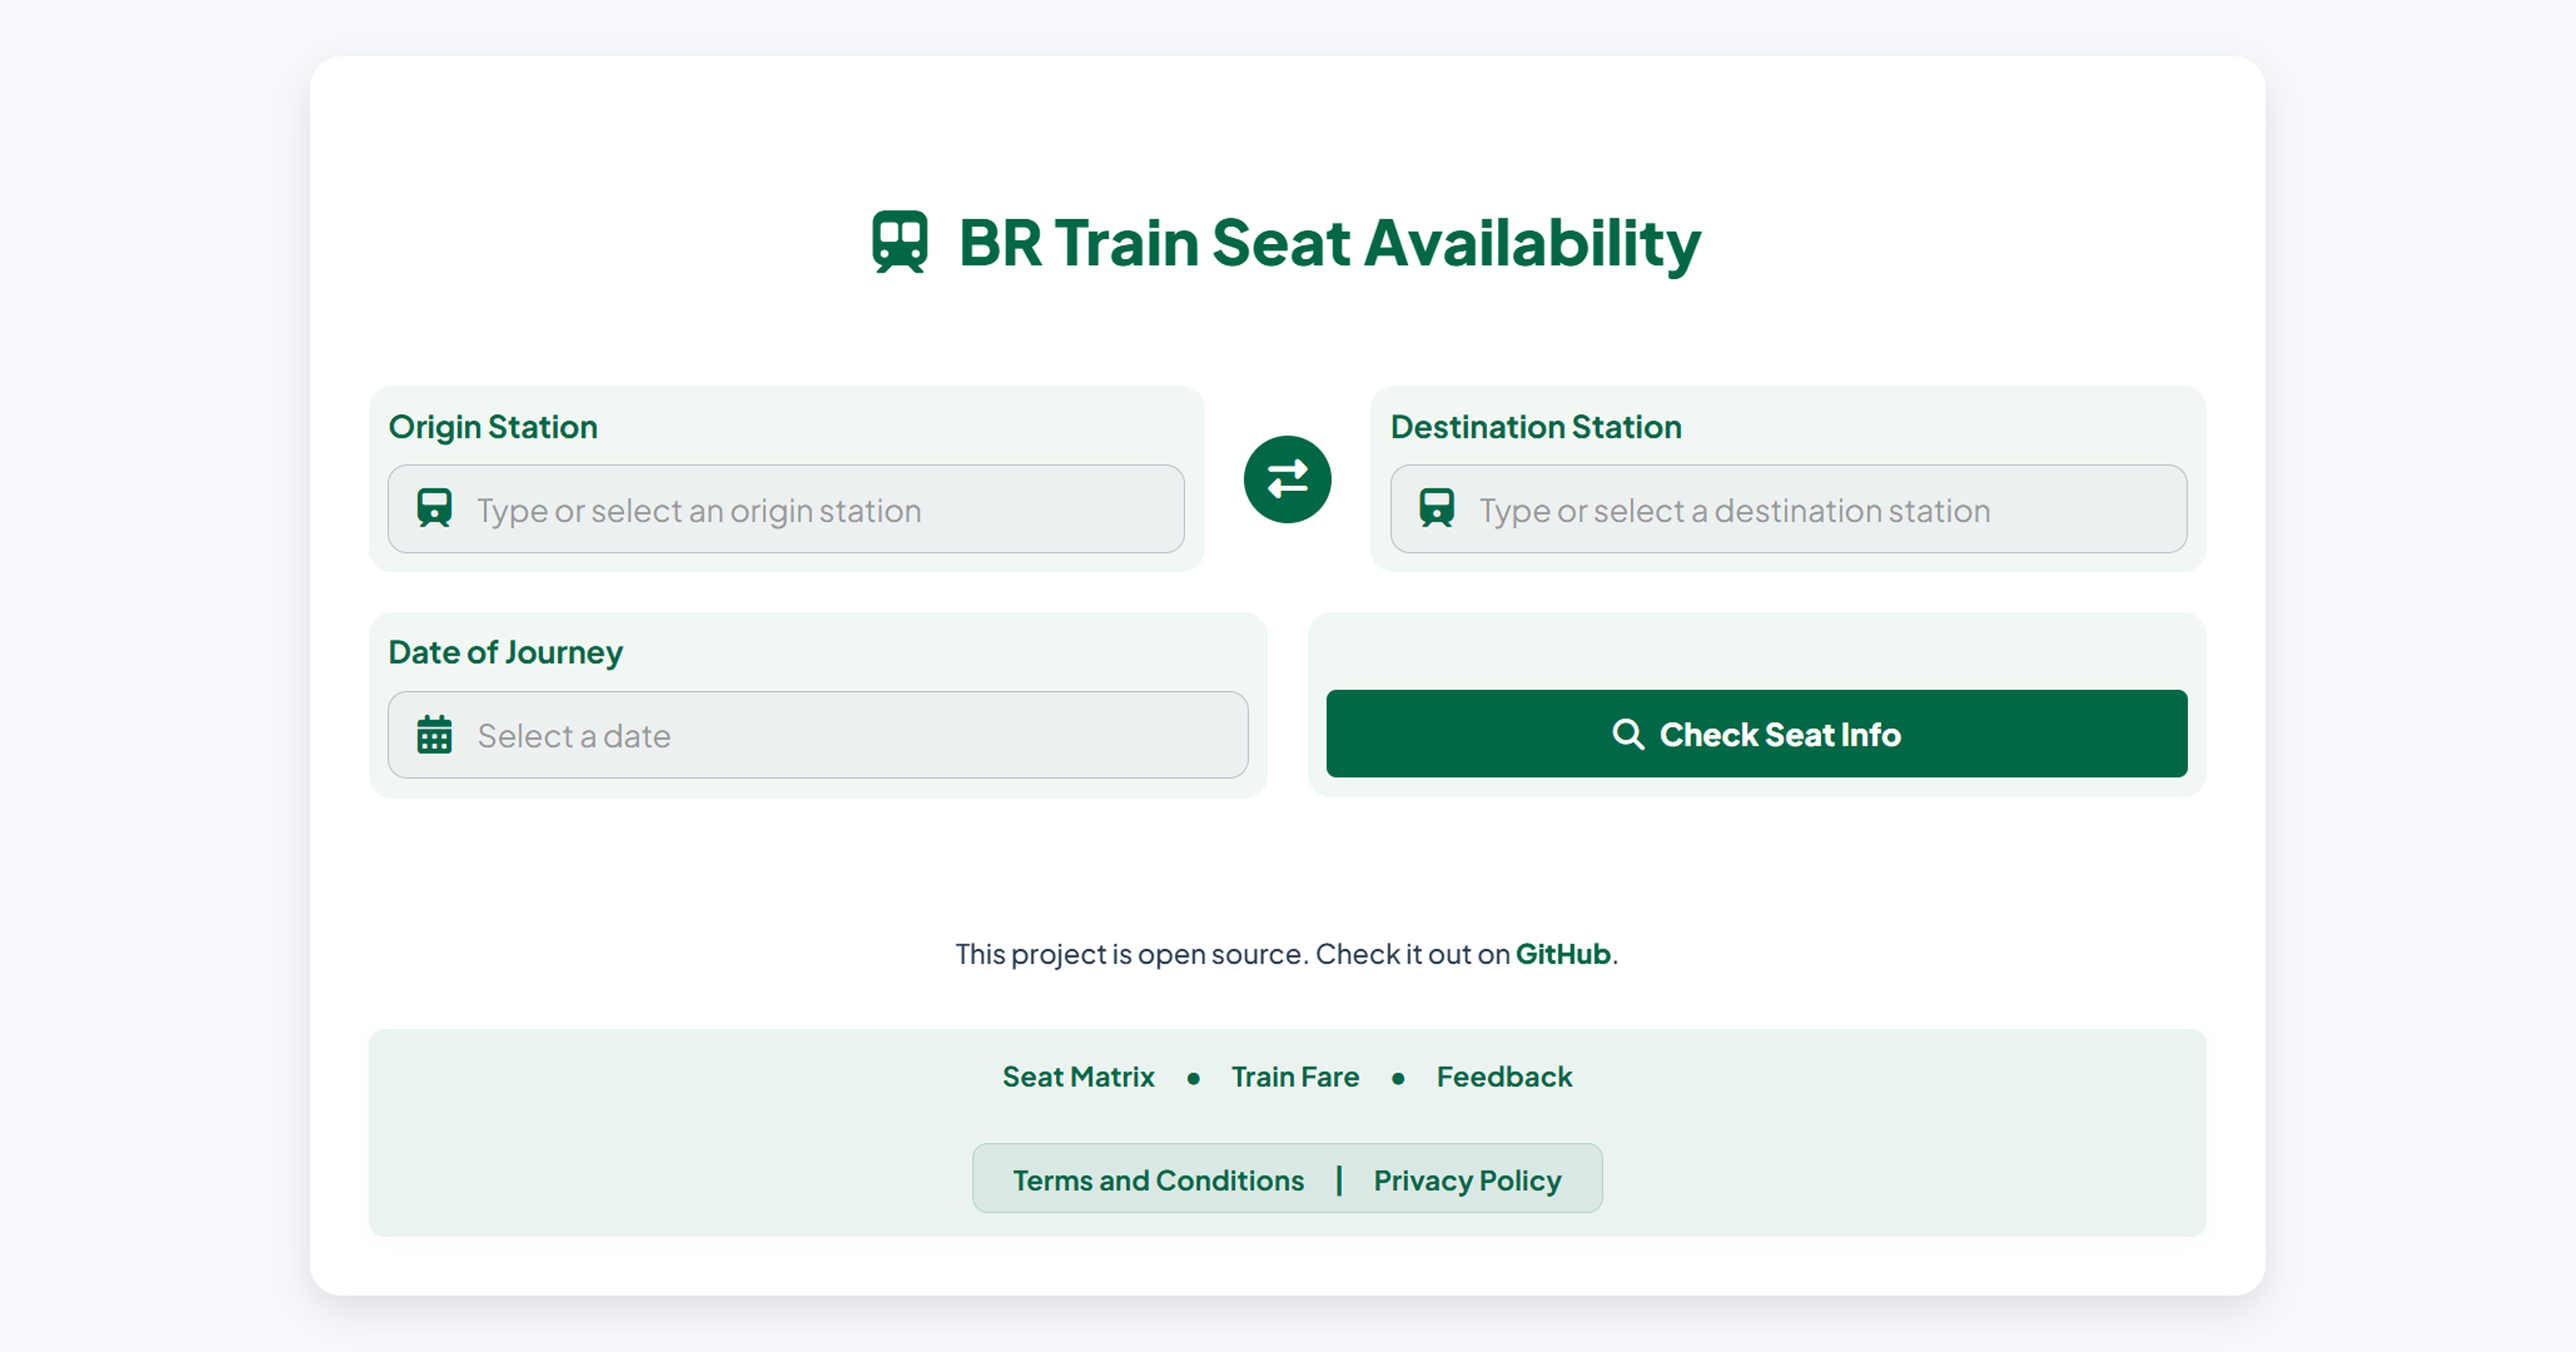
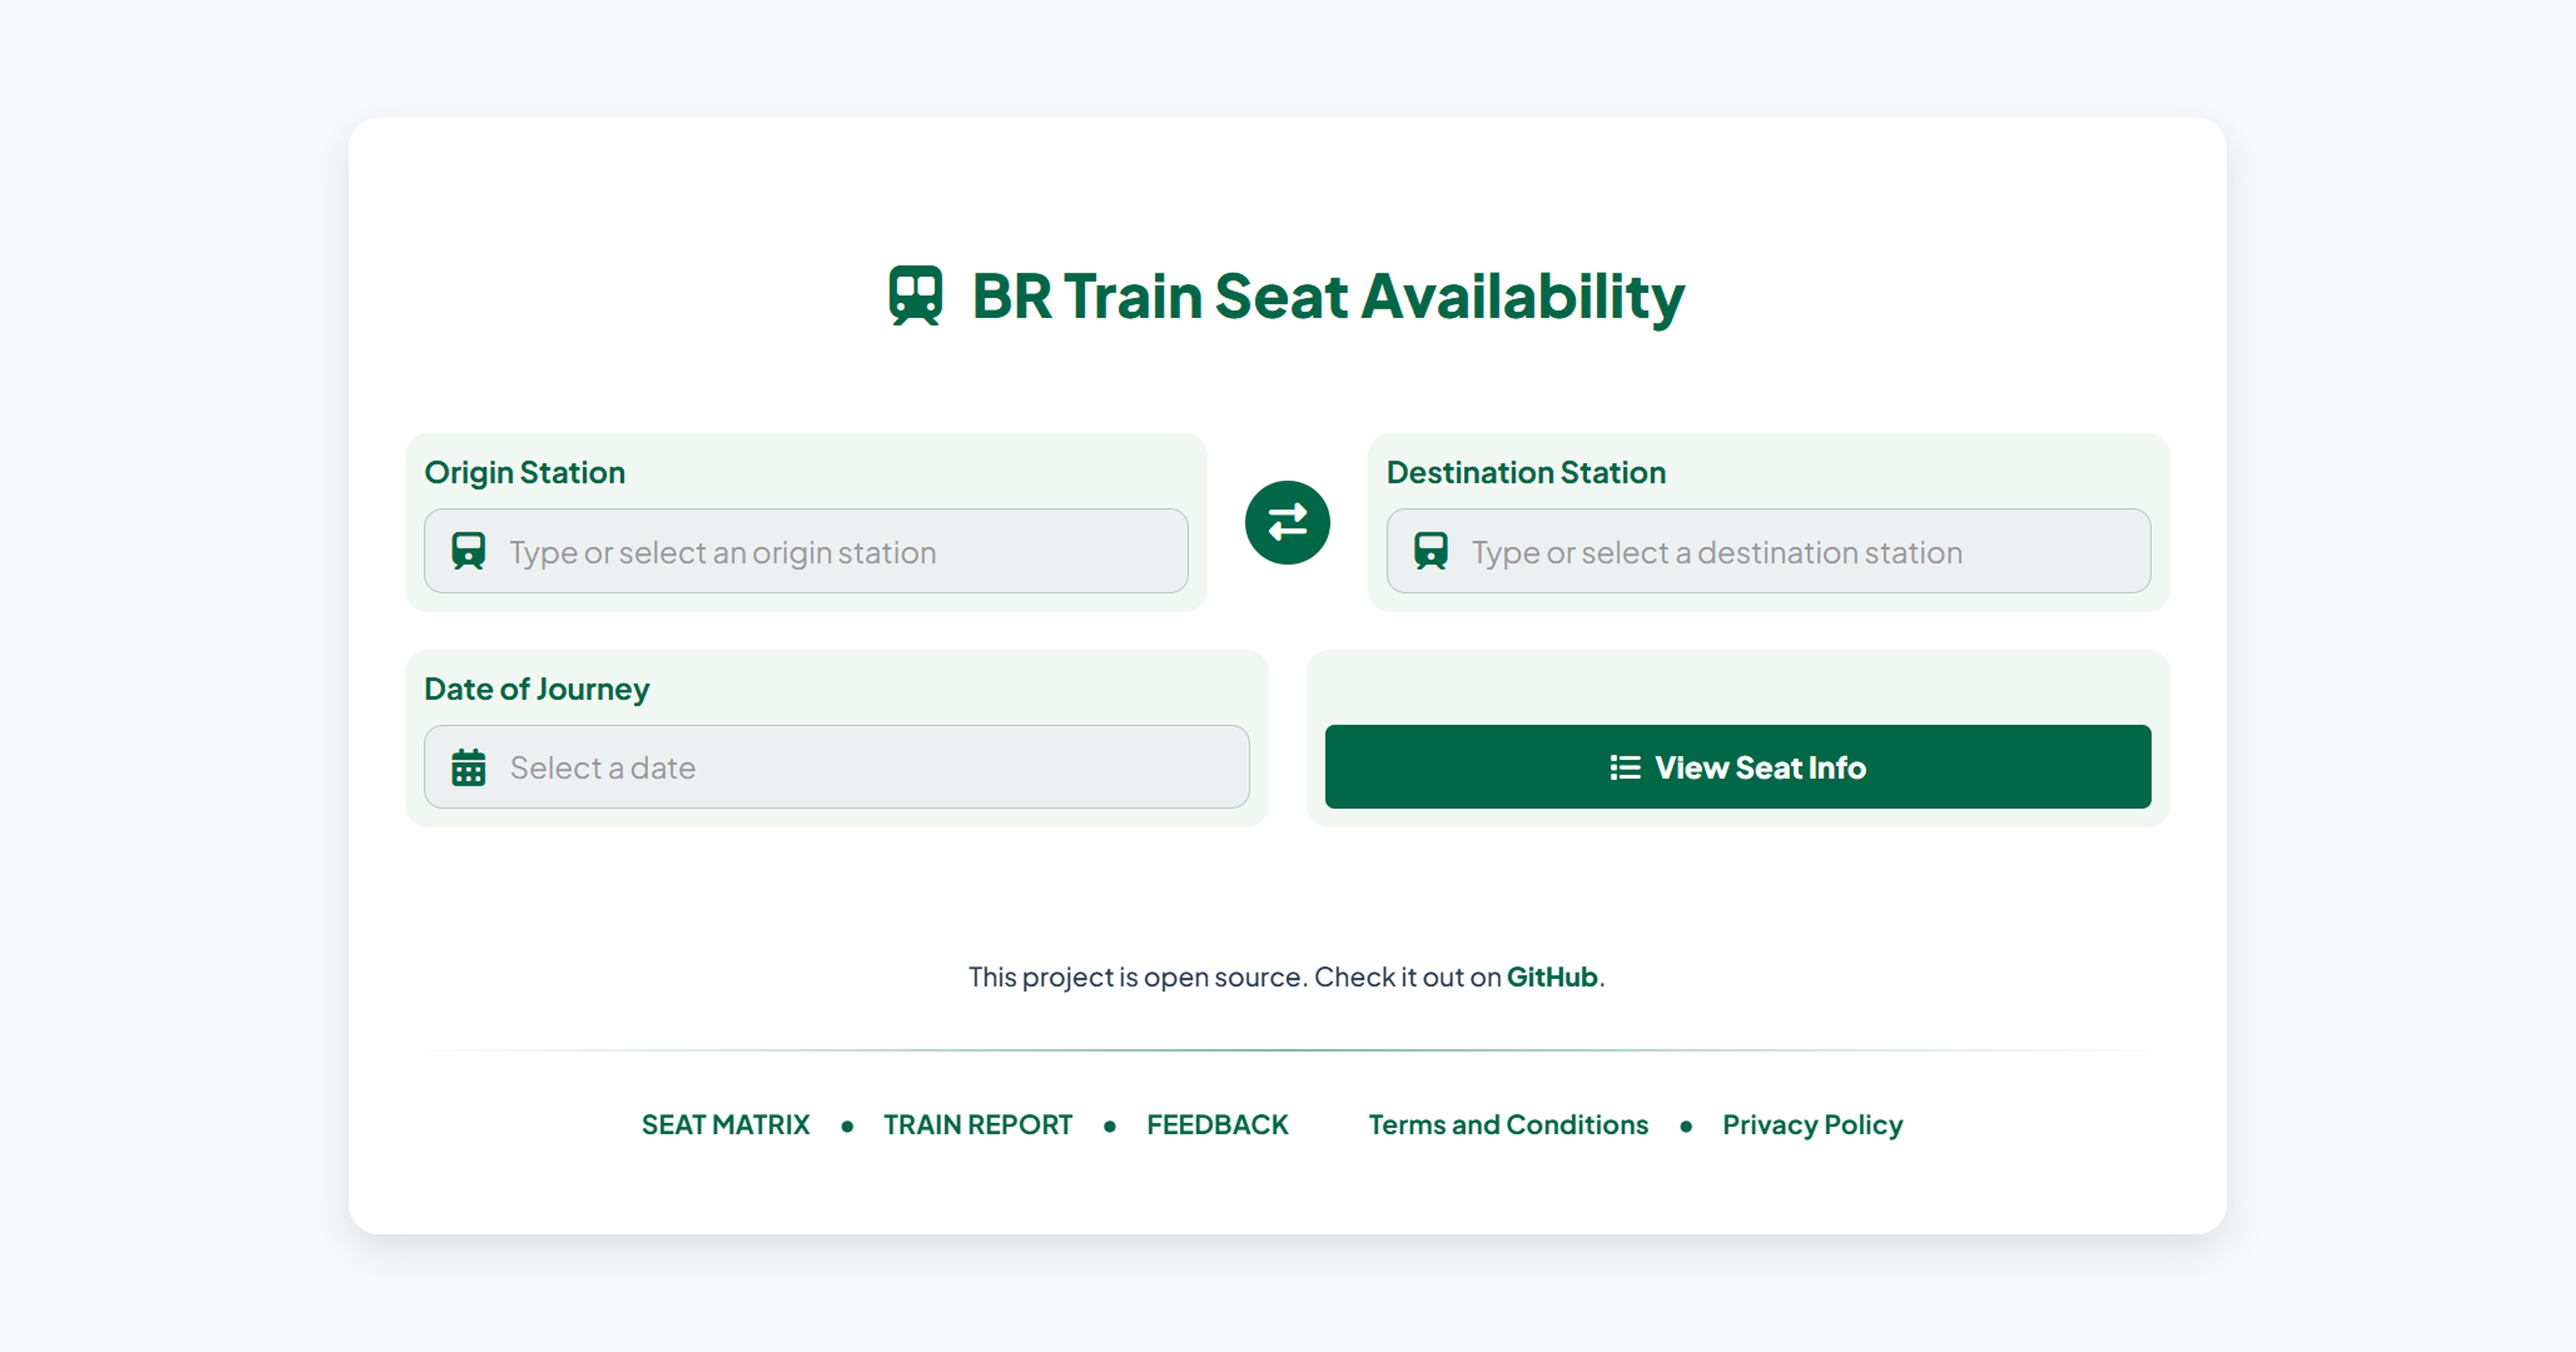
Update screenshots and legal link text for clarity
Added a new screenshot and updated existing images in the README and images directory to better illustrate the application's interfaces. Adjusted the legal links in index.html to use sentence case for improved readability.

diff --git a/templates/index.html b/templates/index.html
@@ -152,9 +152,9 @@
             <a href="https://forms.gle/NV72PC1z75sq77tg7" target="_blank">FEEDBACK</a>
             <span class="dot"></span>
             <div class="legal-links">
-                <a href="#" onclick="openModal('termsModal', event)">TERMS AND CONDITIONS</a>
+                <a href="#" onclick="openModal('termsModal', event)">Terms and Conditions</a>
                 <span class="dot">•</span>
-                <a href="#" onclick="openModal('privacyModal', event)">PRIVACY POLICY</a>
+                <a href="#" onclick="openModal('privacyModal', event)">Privacy Policy</a>
             </div>
         </div>
 

diff --git a/README.md b/README.md
@@ -22,9 +22,9 @@ A comprehensive web application to **check real-time seat availability** for Ban
 
 <br>
 
-| <img src="images/Screenshot_1.png" width="400"> | <img src="images/Screenshot_2.png" width="400"> |
-|--------------------------------------------------|--------------------------------------------------|
-| <div align="center">**Home Interface**</div>     | <div align="center">**Seat Availability Results**</div>   |
+| <img src="images/Screenshot_1.png" width="400"> | <img src="images/Screenshot_2.png" width="400"> | <img src="images/Screenshot_3.png" width="400"> |
+|--------------------------------------------------|--------------------------------------------------|--------------------------------------------------|
+| <div align="center">**Home Interface**</div>     | <div align="center">**Seat Availability Page**</div>   | <div align="center">**Seat Availability Result**</div> |
 
 ---
 
